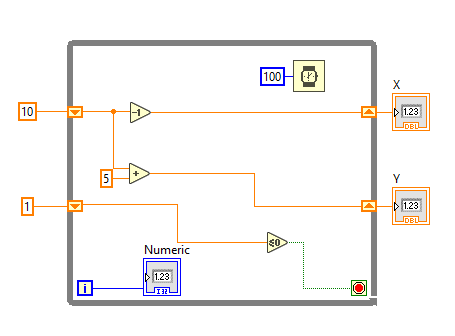
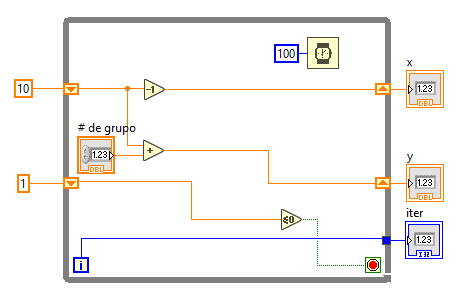
t1.1

Changed region(s): [[0.0308, 0.0293, 0.9538, 0.9381]]

diff --git a/tareas/t1.tex b/tareas/t1.tex
@@ -14,48 +14,16 @@
 \cfoot{\thepage\ de \pageref{LastPage}}
 \setlength{\parindent}{0em}
 
+Usando un Notebook de \href{https://colab.research.google.com/}{Google Colab} realice lo siguiente:
 
 \begin{enumerate}
-    \item Usando el estándar \href{http://integrated.cc/cse/Instrumentation_Symbols_and_Identification.pdf}{ANSI/ISA-5.1-2009} realice un diagrama que describa de mejor manera el proceso de medición descrito. El diagrama básico de conexión debe ser como el mostrado en la Figura \ref{fig:while}. El resto del diagrama debe realizarlo en base a ANSI/ISA-5.1-2009
+    \item Replique el algoritmo mostrado en la Figura \ref{fig:while} usando Python. Imprima en la terminal el valor de X Y 
     \begin{figure}[H]
         \centering
-        \includegraphics[width=10cm]{fig}
-        \caption{Medición de corriente y voltaje en un circuito.}
+        \includegraphics[width=10cm]{fig/t1.1.png}
         \label{fig:while}
     \end{figure}
-    
-    \begin{table}[H]
-        \centering
-        \caption{Mediciones tomadas a una frecuencia de \SI{1}{\hertz}}
-        \vspace{0.5cm}
-        \begin{tabular}{ccc}%
-        \toprule
-        \bfseries tiempo & \bfseries corriente & \bfseries voltaje \\
-        {[\si{\second}]} & [\si{\ampere}] & [\si{\volt}]\\
-        %\[\si{\second}\] & \[\si{\ampere}\] & \[\si{\volt}\] \\
-        \midrule
-        \csvreader[
-            late after line=\\,
-            late after last line=,
-            before reading={\catcode`\#=12},
-            after reading={\catcode`\#=6}]%
-            {data.csv}{1=\time1,2=\current1,3=\voltage1}{\time1 &\current1 & \voltage1}\\
-            \bottomrule
-        \end{tabular}
-        \label{tab:datos}
-    \end{table}
 
-    \item Se realizó una medición por segundo durante 20 segundos usando el proceso de medición descrito y se obtuvieron los datos mostrados en la Tabla \ref{tab:datos}. Calcule el valor de $R_sh$ para cada uno de los $n$ puntos de datos y realice una tabla que incluya las tres columnas de la Tabla \ref{tab:datos} y una tercera columna para los valores de $R_{sh}$.
-    \item Para el conjunto de valores de $R_{sh}$, calcule lo siguiente e incluya en una tabla:
-    \begin{enumerate}
-        \item El valor promedio, $\overline{R_{sh}}$ 
-        \item La desviación estándar, $\sigma$
-        \item El valor promedio de error relativo tomando \SI{1}{\ohm} como valor real
-        \item El valor de la incertidumbre estándar, $\sigma_x = \sigma / \sqrt{n}$
-        \item La exactitud
-        \item La precisión
-        \item La repetibilidad
-    \end{enumerate}
 
 \end{enumerate}
 
